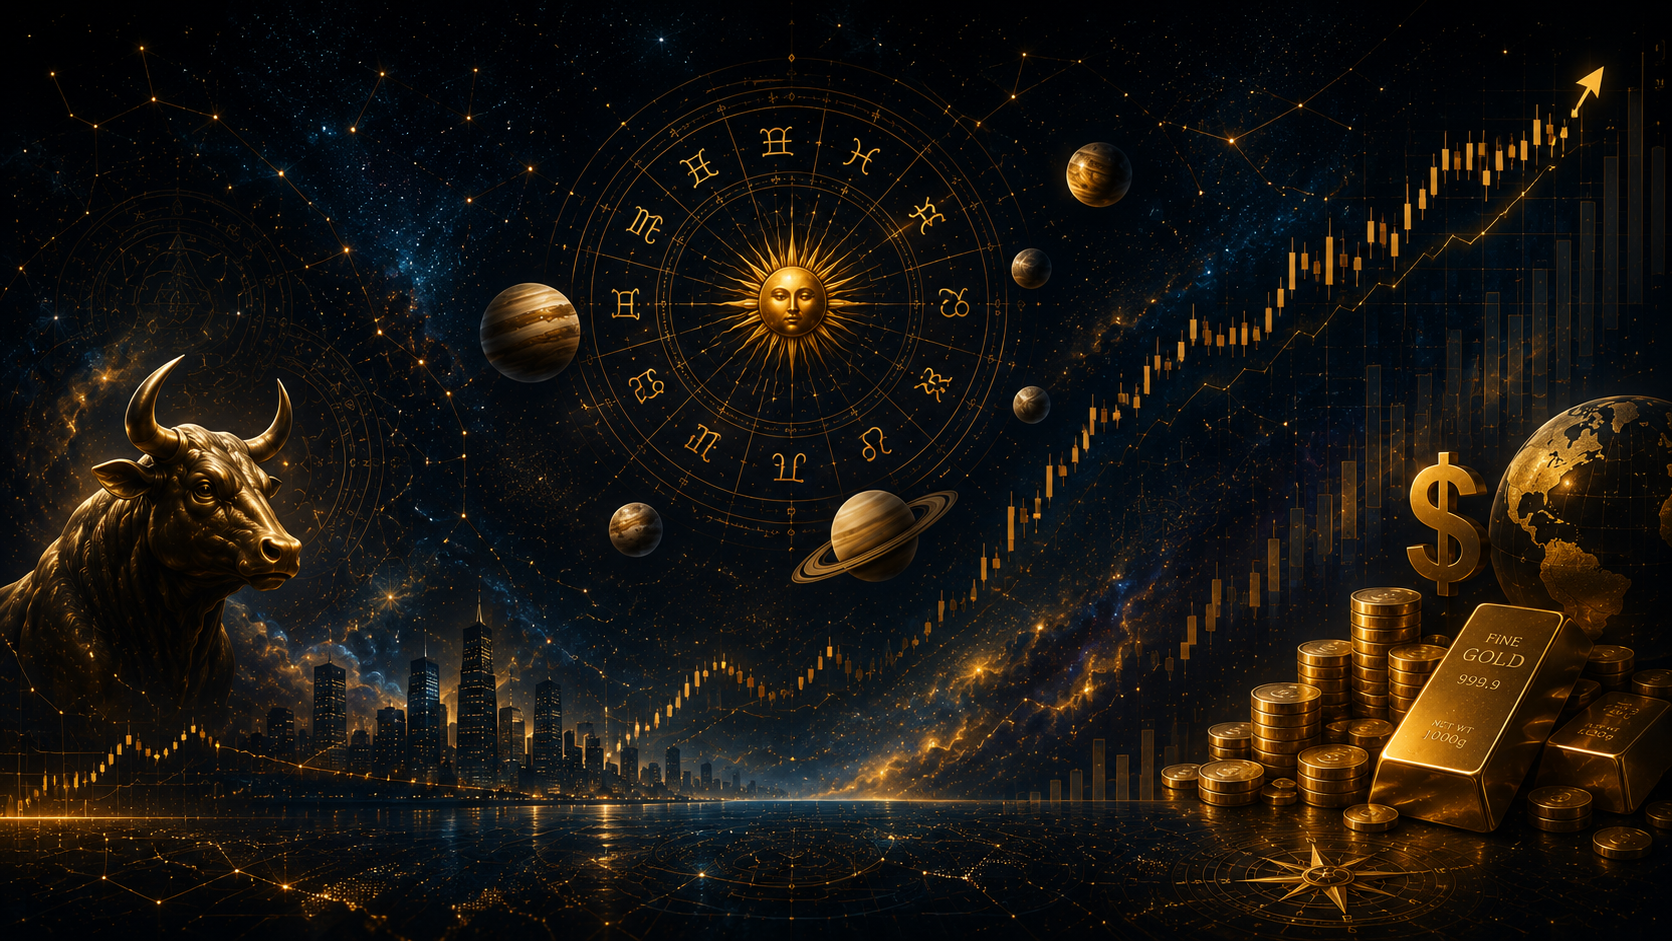
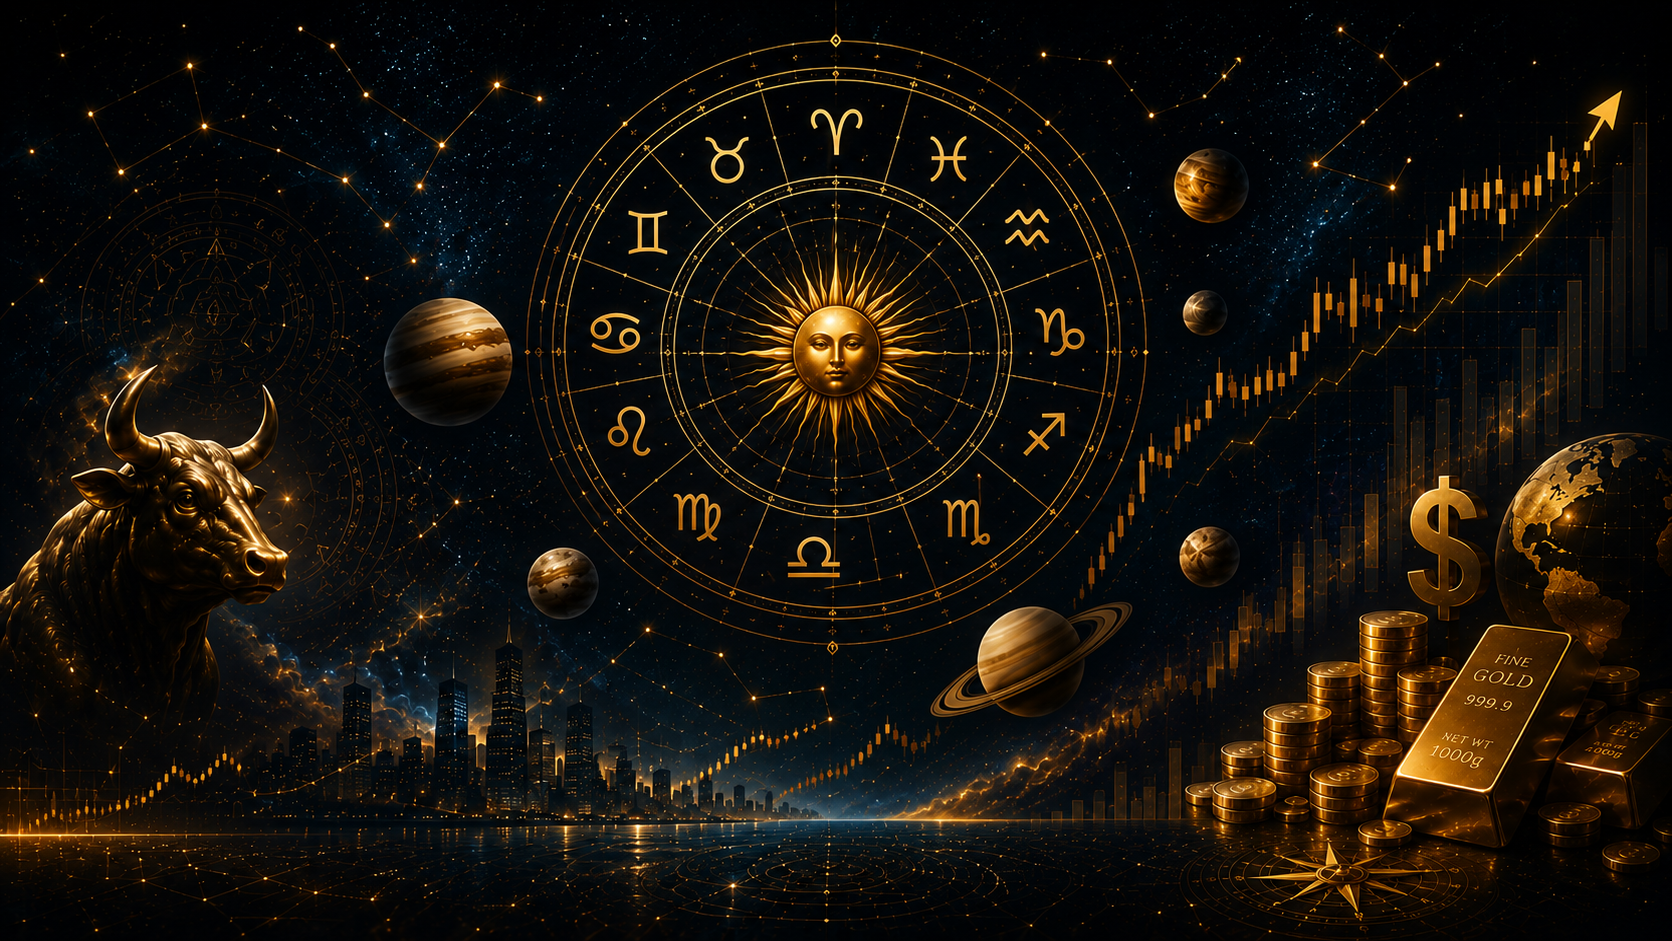
background.png

diff --git a/astro_engine.py b/astro_engine.py
@@ -667,6 +667,18 @@ def evaluar_relacion(p1, p2, orbe=8):
     direction -= max(fear_mix, 0) * fuerza["fuerza"] * 0.10
     speculation += max(-clarity_mix, 0) * fuerza["fuerza"] * 0.12
 
+    tendencia_relacion = relacion_aplicativa(p1, p2)
+
+    if tendencia_relacion == "aplicativa":
+        direction *= 1.10
+        speculation *= 1.10
+        volatility *= 1.15
+
+    elif tendencia_relacion == "separativa":
+        direction *= 0.90
+        speculation *= 0.90
+        volatility *= 0.85
+
     return {
         "planeta_1": p1["Planeta"],
         "planeta_2": p2["Planeta"],
@@ -675,6 +687,7 @@ def evaluar_relacion(p1, p2, orbe=8):
         "conjuncion": fuerza["conjuncion"],
         "mismo_signo": fuerza["mismo_signo"],
         "fuerza": fuerza["fuerza"],
+        "tendencia": tendencia_relacion,
         "direction": round(direction, 2),
         "speculation": round(speculation, 2),
         "volatility": round(volatility, 2),
@@ -1916,6 +1929,28 @@ PADA_POWER = {
     3: 0.98,
     4: 1.02,
 }
+
+def relacion_aplicativa(p1, p2):
+    distancia_hoy = distancia_angular(
+        p1["Longitud"],
+        p2["Longitud"]
+    )
+
+    lon1_manana = (p1["Longitud"] + p1["Velocidad"]) % 360
+    lon2_manana = (p2["Longitud"] + p2["Velocidad"]) % 360
+
+    distancia_manana = distancia_angular(
+        lon1_manana,
+        lon2_manana
+    )
+
+    if distancia_manana < distancia_hoy:
+        return "aplicativa"
+
+    if distancia_manana > distancia_hoy:
+        return "separativa"
+
+    return "estable"
 
 if __name__ == "__main__":
     fecha = datetime(2026, 4, 13)